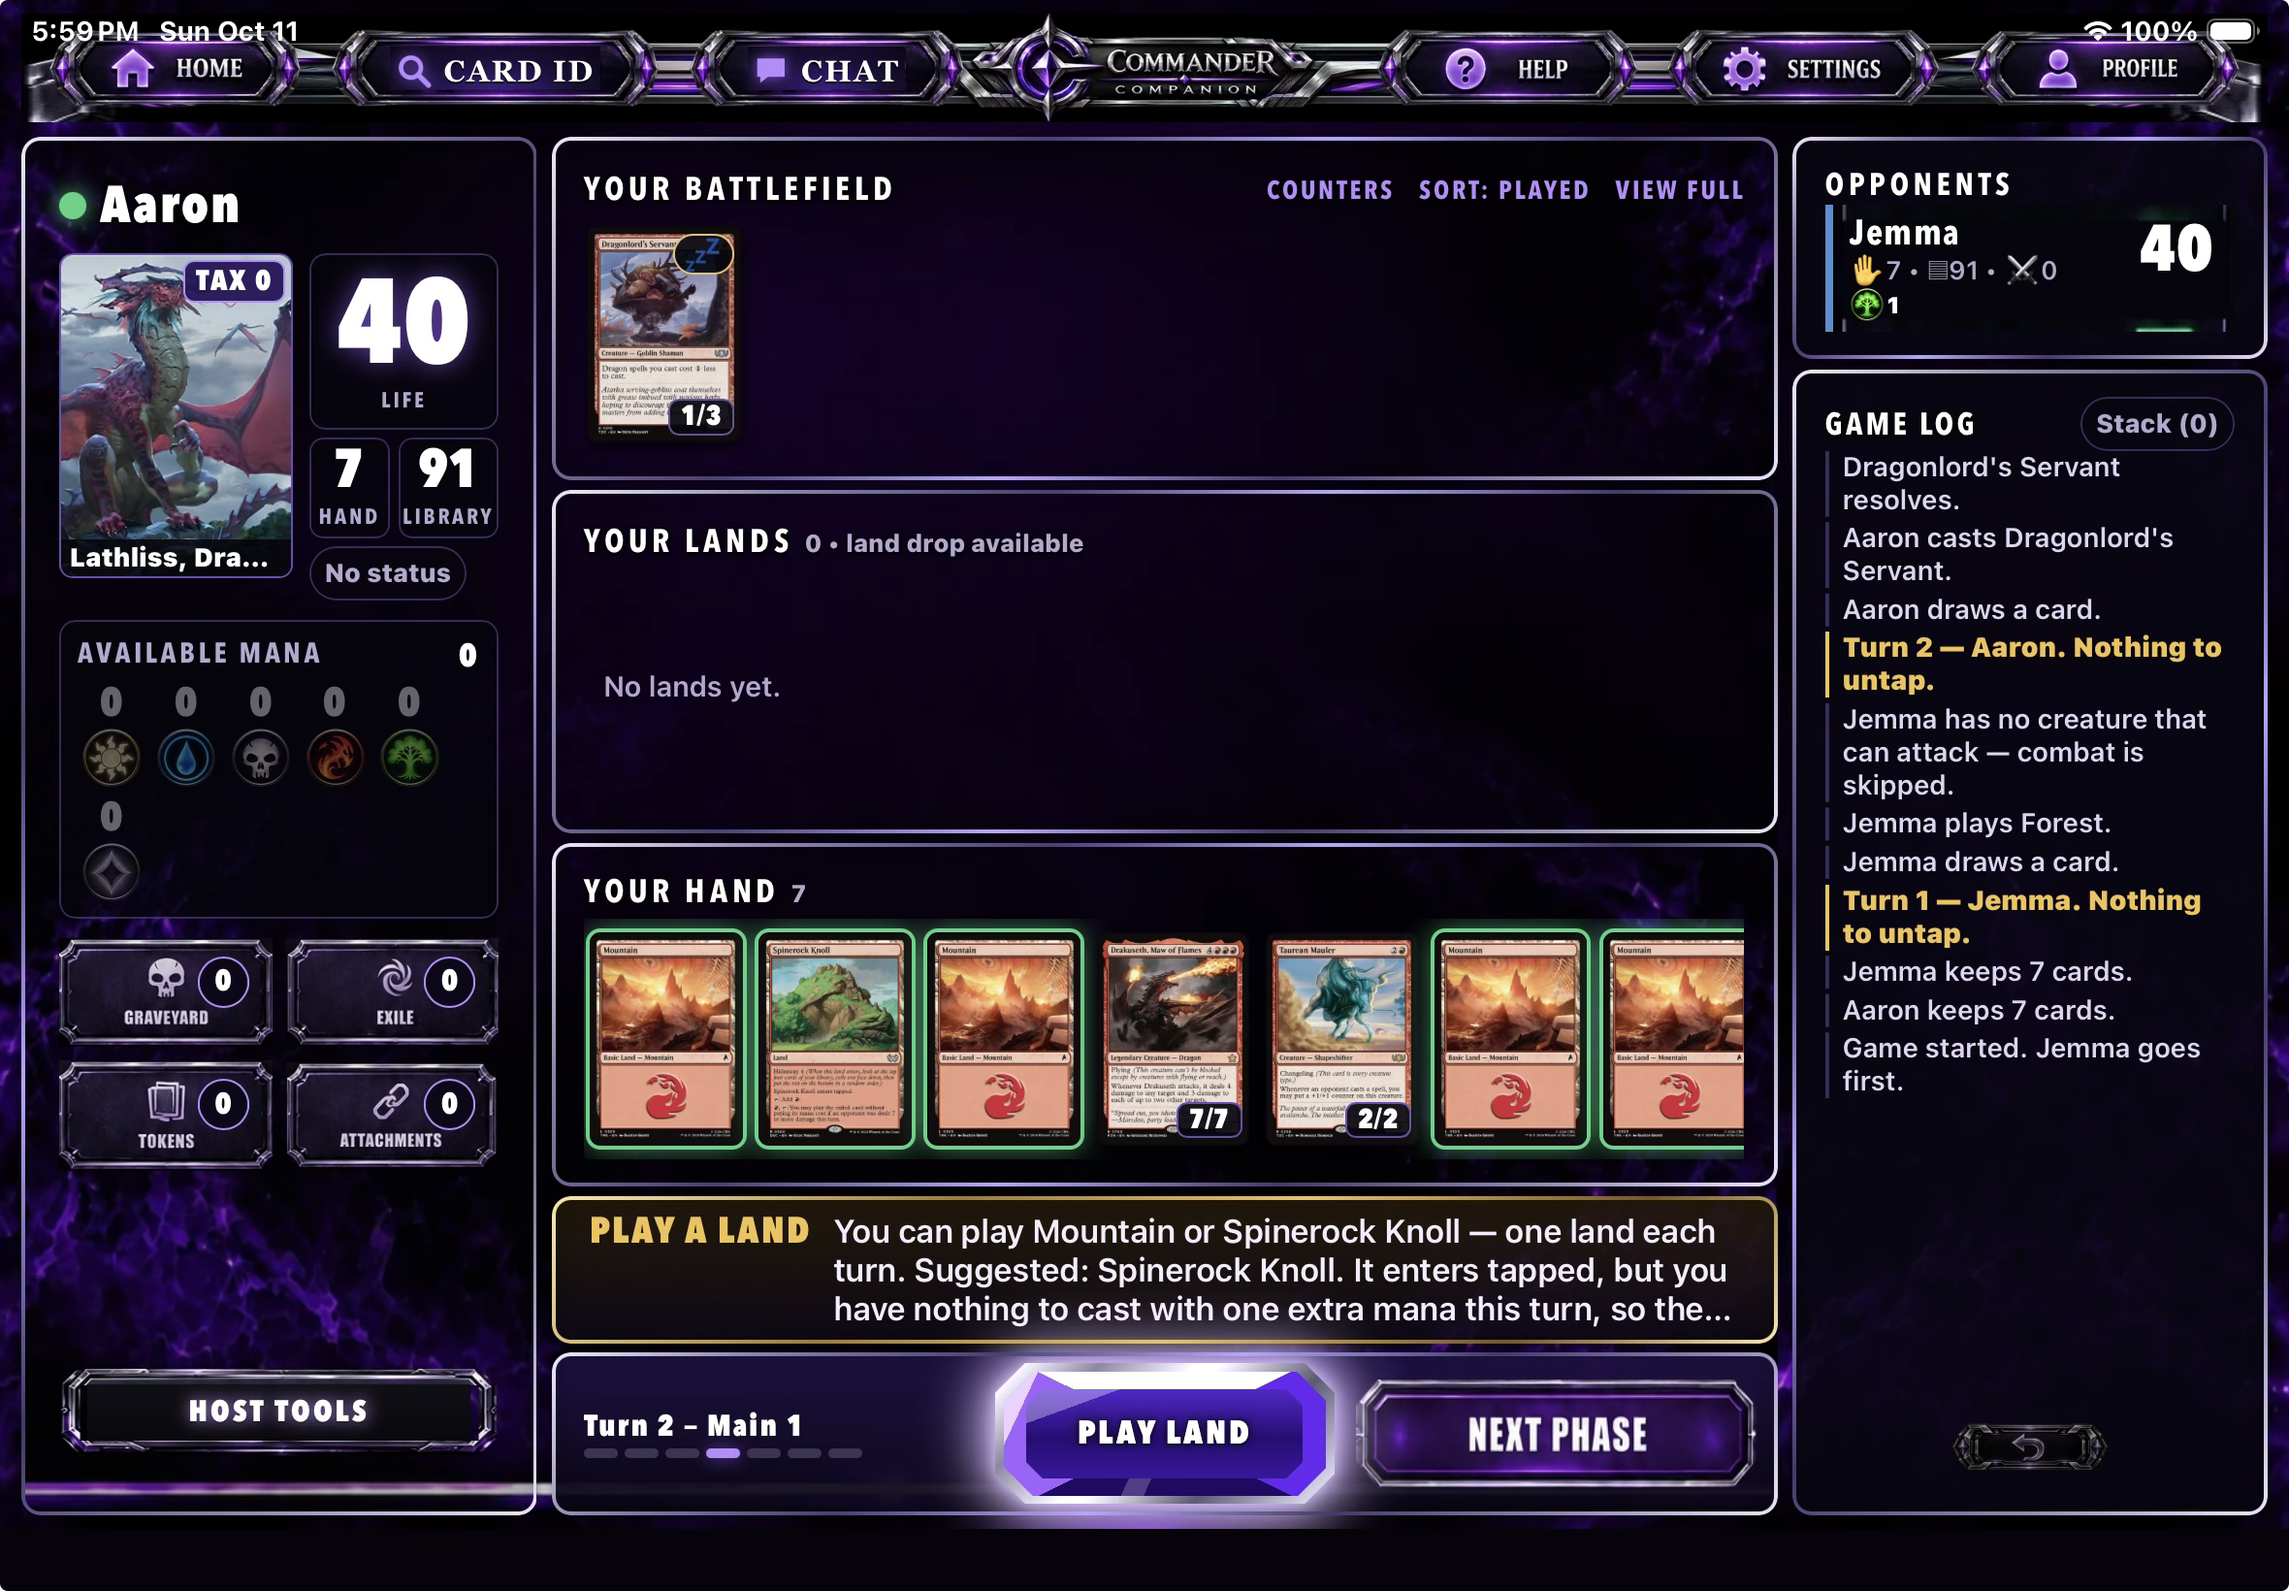
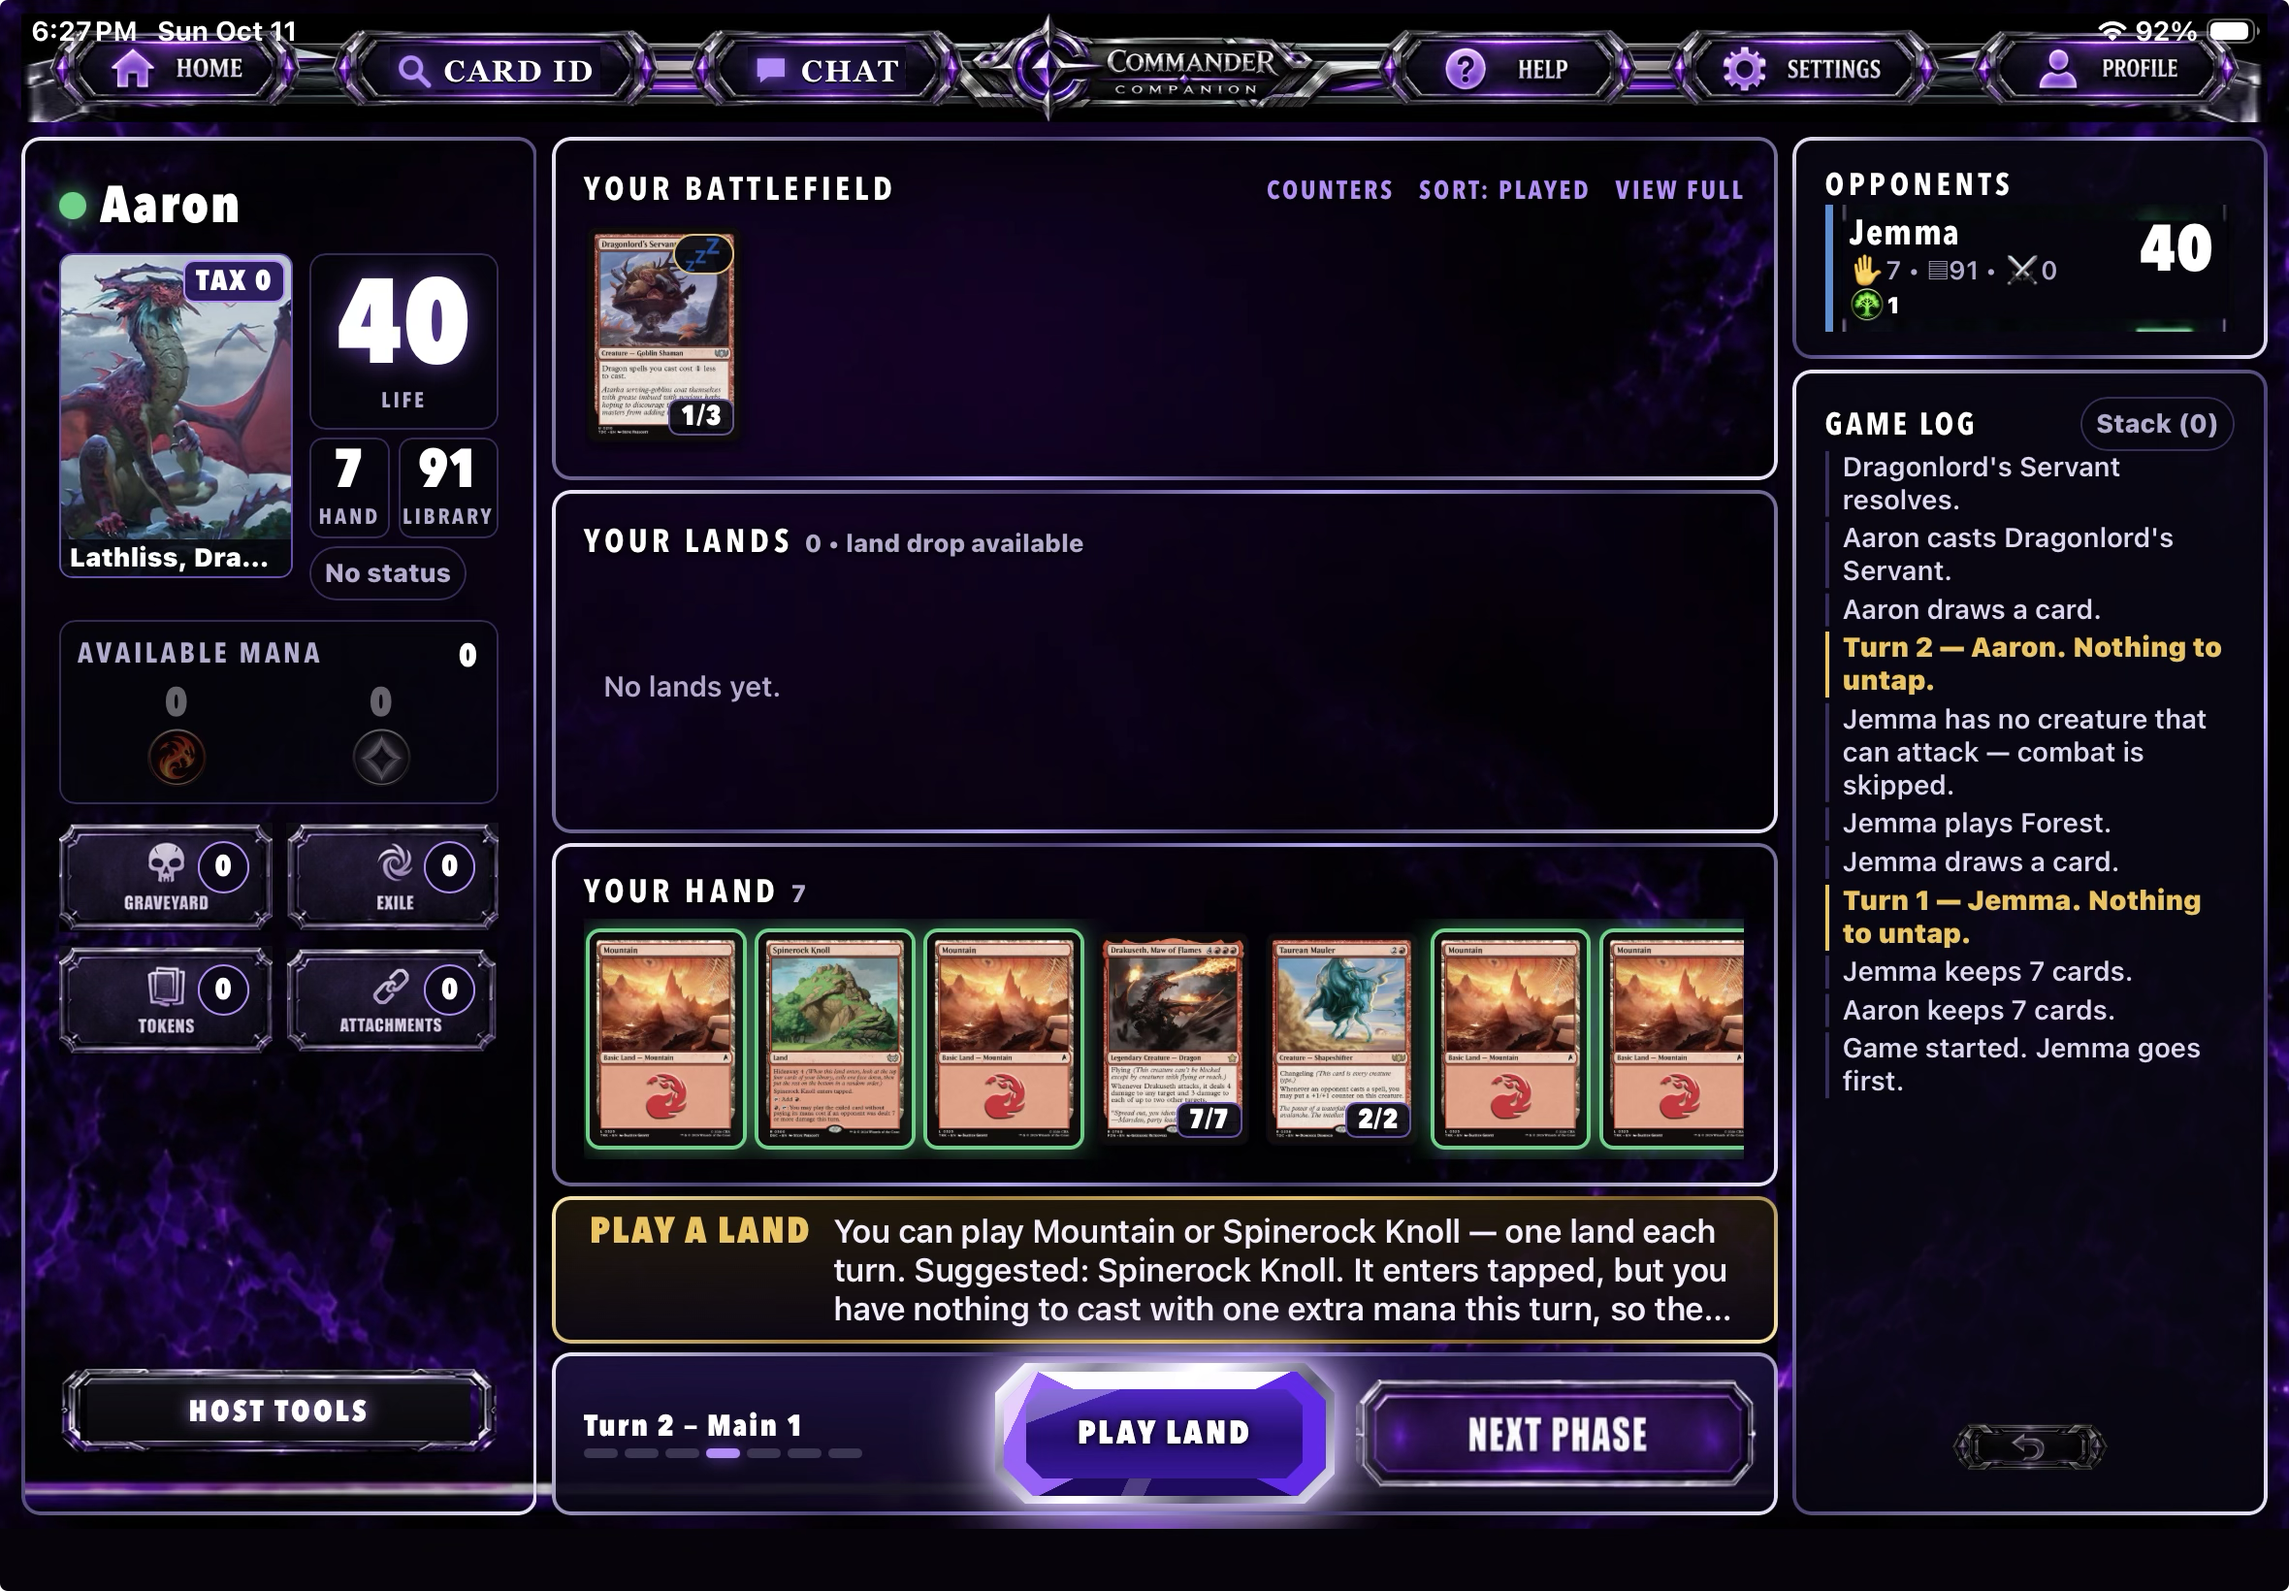
Visual master: in-game iPad screen from build 29
Claude-Session: https://claude.ai/code/session_01UDepgPJyHG4s9SYpqBZ2S5

Changed region(s): [[0.0309, 0.4354, 0.2165, 0.7463], [0.0309, 0.0, 0.1237, 0.0311], [0.897, 0.0, 0.9589, 0.0311]]

diff --git a/rebuild/design/README.md b/rebuild/design/README.md
@@ -3,6 +3,5 @@
 The owner's approved screens. New work on these screens must match them; compare device
 screenshots against them before claiming a visual change is right.
 
-- `visual-master-game-ipad.png` — in-game screen, iPad landscape (owner's device, 2026-10-11).
-  One difference is intended: since build 29 the Available Mana panel shows only the commander's
-  colors plus colorless, on one evenly spaced row (the master shows all six on two rows).
+- `visual-master-game-ipad.png` — in-game screen, iPad landscape (owner's device, build 29,
+  2026-10-11). Available Mana shows only the commander's colors plus colorless on one row.
